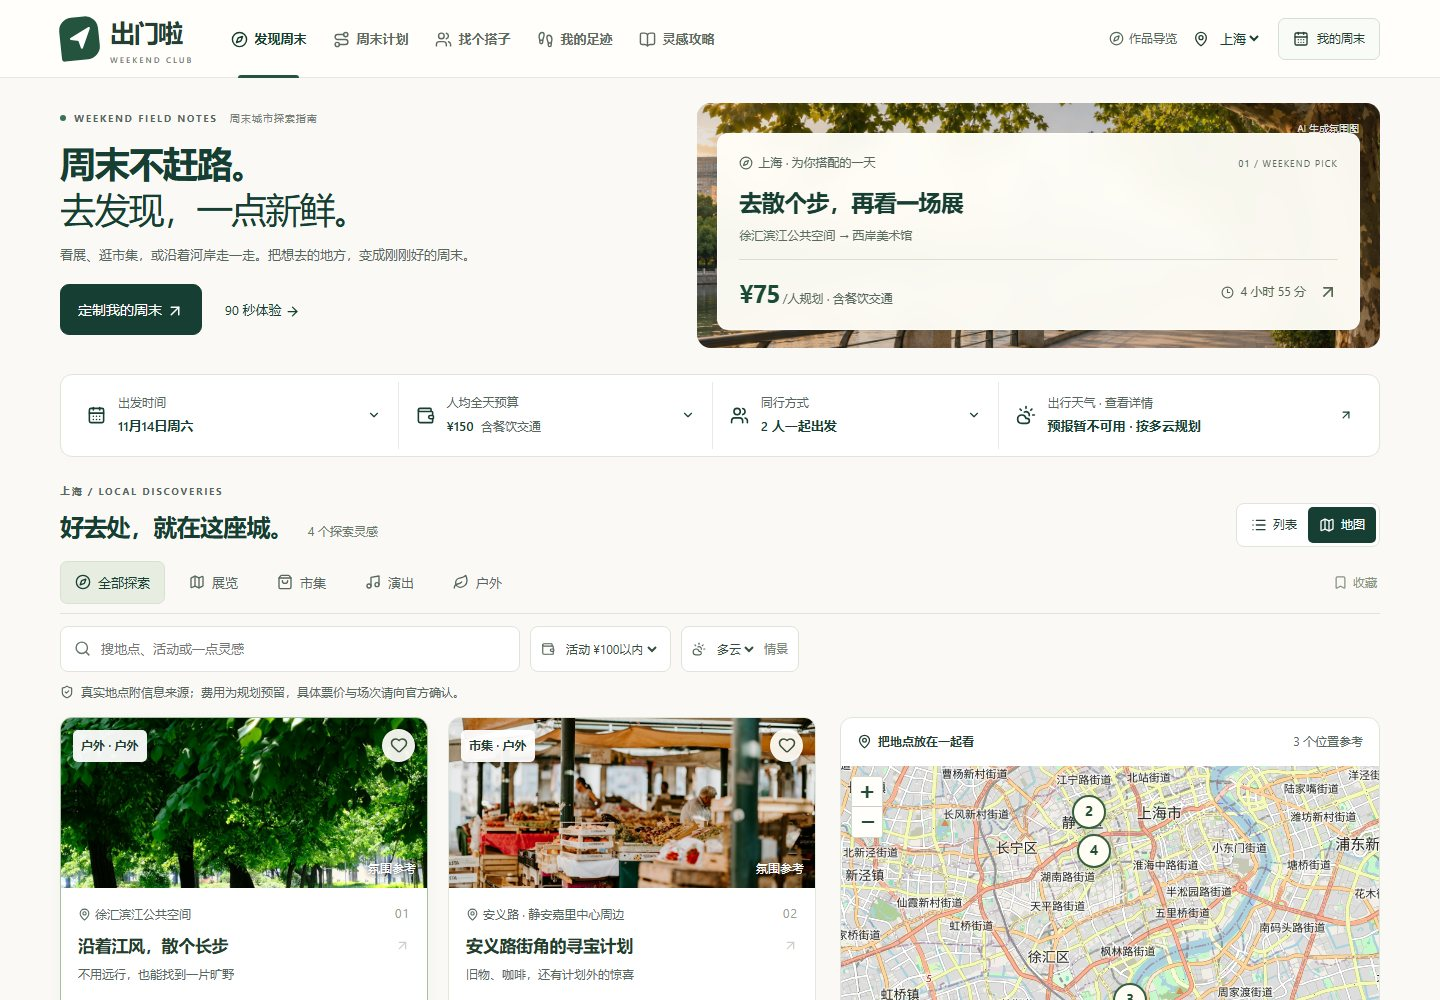
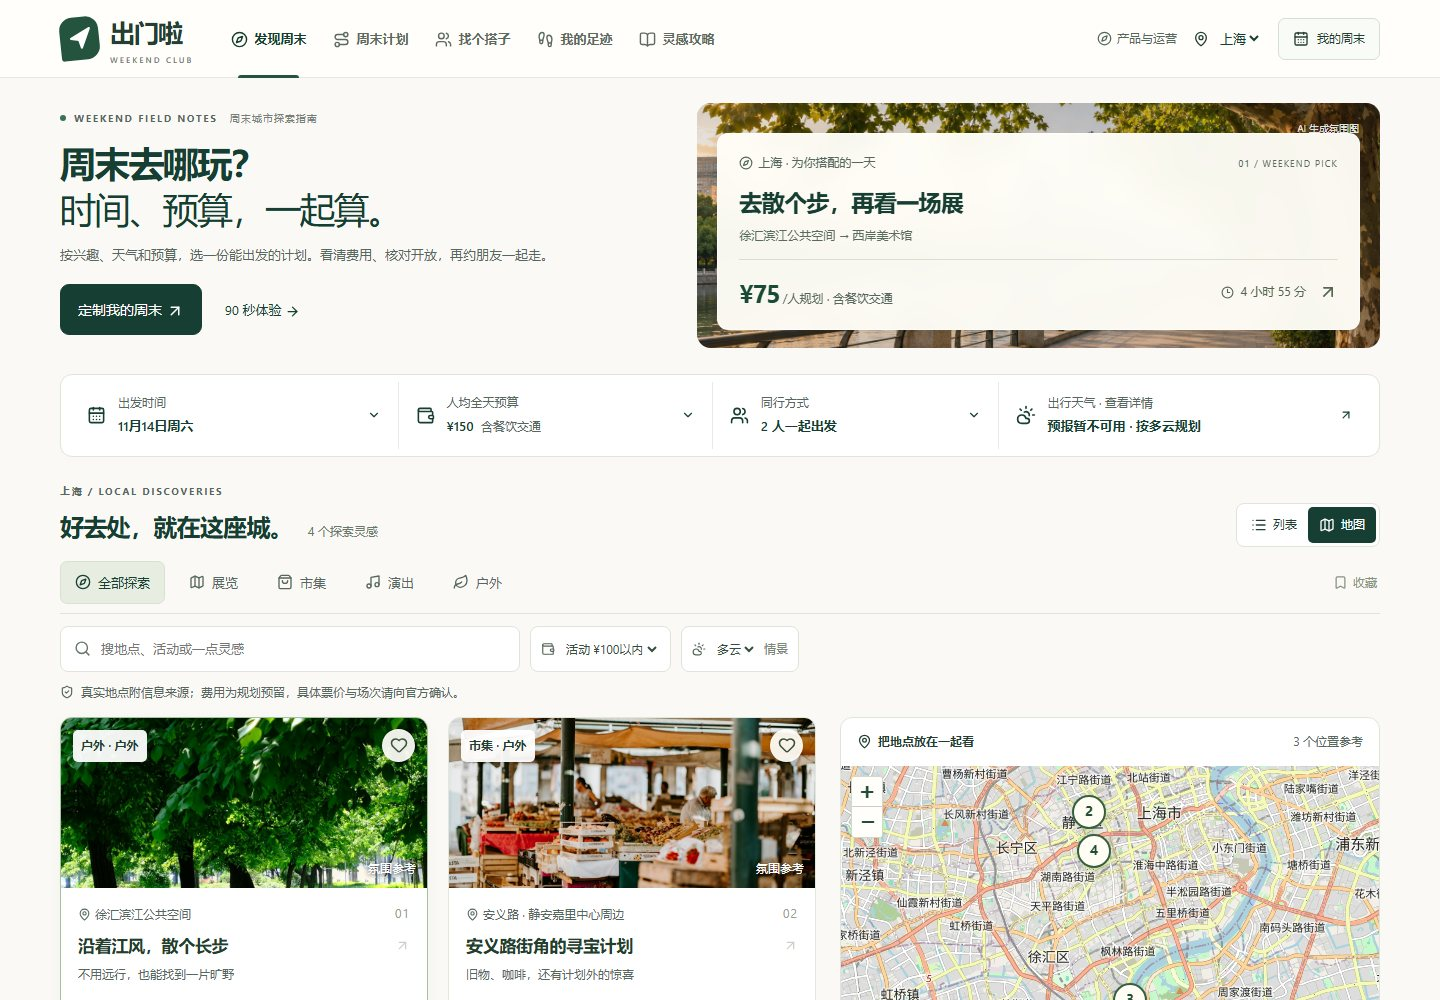
Document V5 public verification and product-business screenshots

Changed region(s): [[0.0312, 0.124, 0.375, 0.279], [0.75, 0.031, 0.8125, 0.062]]

diff --git a/README.md b/README.md
@@ -22,7 +22,7 @@
 | 地点有依据 | 12 个地点附官方或政府来源、核验日期、地址、预约与开放说明；真实街区和未确认的市集、演出场次分别标记 |
 | 看清在哪里 | Leaflet 交互地图与列表联动，11 个核对过的 OpenStreetMap 参考点；地图加载失败仍可看列表、重试或打开高德搜索 |
 | 算时间与花费 | 时间轴、顺序调整、人均及同行规划总额；各站费用可自行校正，已知常规开放与等待参与排程 |
-| 出发前再核对 | 可折叠清单串起开放、费用、交通和同行，保留官方信息入口；计划末尾可反馈具体不合适原因并重新定制 |
+| 出发前再核对 | 前置全天费用、结束时间与开放风险；清单直达官方信息，个人勾选不等于预约；具体反馈可引导重新定制 |
 | 应对天气变化 | Open-Meteo 城市预报与手动天气情景；雨天定制筛选室内，替代前展示新费用和时间，不可行时说明限制 |
 | 邀请朋友同行 | 创建自己的小队、分享邀请；朋友生成参加或撤回回执，手动发回，发起人核对后确认导入名单 |
 | 留下并分享经验 | 文字与照片打卡；整理成可编辑攻略草稿，补充实际花费后保存、分享 |
@@ -37,6 +37,10 @@
 
 以上为实际运行页面截图，版本检查见 [验证记录](docs/VERIFICATION.md)。
 
+“产品与运营 → 商业测算”将支付交易额、有效核销佣金和成本分开计算，支持修改假设并观察盈亏平衡。下图是实际页面中的演算，**不是项目收入或用户规模**。
+
+![商业假设测算：如实展示收入、成本和贡献利润](docs/images/business.jpg)
+
 ## 信息如何使用
 
 **真实地点，规划费用。** 地点资料于 2026-11-10 查阅并记录来源，详见 [资料目录](src/evidence.ts)。西岸美术馆、浙江美术馆、UCCA 的已知常规开闭馆和最后入场时间参与计划约束；节假日、临时调整仍需核实。安义路、小河直街是街区探索灵感，不承诺当周有市集；演出场馆没有绑定真实场次。费用分为官方列明免费、活动预留与可选消费，不是实时票价或总价保证。查到价格后，可在计划中校正各站金额，预算和导出同步重算；自行填写不等于票价核验或支付成功。图片表达场景氛围，不作为场馆实拍证据。
@@ -48,6 +52,8 @@
 **分享可带走，名单由本人确认。** 行程、邀请、回执和攻略通过链接的 `#` 片段传递；二维码在设备本地生成，不使用外部短链服务，内容过长时退回复制链接。朋友必须自行把回执发回，发起人确认导入后才更新本机名单；没有身份认证、实时同步或自动发消息。链接可转发、内容不加密，本机修改不会撤回已发出的快照。清除浏览器数据前可先备份。
 
 **操作次数与商业假设分开。** 运营页仅记录本机实际操作，不上传、不统计临时导览，不代表 UV、漏斗转化或真实到访。商业模型的规划量、转化、客单价、佣金和成本都是可修改的假设；当前没有合作结算、支付回传或佣金收入。策略依据来自官方公开岗位与实践，不冒充美团笔试评分标准。
+
+出发核对状态和体验计数只保存在当前浏览器，不随分享或既有 JSON 备份迁移；行程、收藏、小队、打卡与攻略仍按原有方式备份恢复。
 
 ## 本地运行与检查
 

diff --git a/docs/VERIFICATION.md b/docs/VERIFICATION.md
@@ -6,7 +6,22 @@
 - 出发清单按日期与地点保存个人核对；独立组件浏览器检查已验证刷新、取消、日期隔离、导览不读写正式状态、存储失败提示与官方链接动作。勾选不表示预约成功，状态不随分享或既有备份迁移。
 - 商业测算默认数值明确为演算假设。模型显示支付交易额、有效核销佣金、成本与贡献利润；没有订单回传、合作结算或真实收入。单元测试不代表商业假设已获验证。
 
-正式产物、完整页面与公开部署结果在发布验收后补充。历史验证如下。
+提交 `4d9808c088a05769d8f58894ad499e68a7d8e50e` 已通过 [Linux 正式构建](https://github.com/LeiQingliang/weekend-city-guide/actions/runs/42757096436)，88 项测试、类型检查与 Vite 构建成功。下载产物核对了提交与 ZIP SHA256，主资源为 `index-CB7j1msW.js`、`index-DTByIf_Z.css`。
+
+该正式产物的浏览器验收通过：
+
+- 产品判断、运营验证和商业测算在 1440、390、320 像素均可操作；默认演算月贡献利润为 -2486.4，佣金假设调为 20% 后为 1512，调为 0 后无可行盈亏平衡点；零用户保留固定成本，非法输入停止输出结果，重置恢复原假设。
+- 采用、生成分享、打开核对清单的官方入口及反馈正确增加各自的本机次数；刷新保留。清空只移除计数，行程与个人核对保持不变。
+- 核对状态按日期隔离，改回日期与刷新恢复；“信息待确认”会打开并聚焦清单，“时间不合适”可继续定制，取消保留原计划。
+- 临时导览的采用、分享、打开官方、反馈和打卡未读写正式计数，个人核对也与正式状态隔离。
+- 原有跨浏览器回执 10 项和费用/分享 4 项回归通过。没有把本机动作称为用户漏斗、真实到访或交易。
+- 手机已有计划时，页尾作品说明、备份下载与恢复选择可实际点击；修复底部浮层遮挡。窄屏顶栏、长计数、长金额、错误提示无溢出，未捕获页面脚本错误。
+
+**公开部署已验收。** 2026-11-10 12:42（北京时间），`gh-pages` 提交 `07665765ddc559429ce58511f92d6721f09de128` 已通过 [Pages 部署](https://github.com/LeiQingliang/weekend-city-guide/actions/runs/42757438722)。固定地址 **https://leiqingliang.github.io/weekend-city-guide/** 匿名返回 HTTP 200，公开与 HTTPS 设置保持不变。
+
+在线主资源与上述正式产物一致；匿名打开产品与运营、默认商业测算、零佣金提示、采用方案、跨浏览器分享与确认载入、刷新后读取、切换城市保留计划，以及临时导览进入/退出均通过。没有页面脚本错误或站内资源错误。README 三张截图来自该正式产物，商业图明确为默认假设演算；后续文档和截图提交不改动已经验收的应用源码。
+
+历史验证如下。
 
 ---
 
